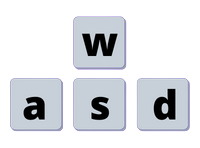
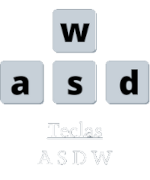
Site do projeto

diff --git a/index.html b/index.html
@@ -37,20 +37,20 @@
             <div id="comandos">
                 <article class="comandos">
                     <h2>OLHE AO REDOR</h2>
-                    <img src="imagens/olhe-ao-redor.png" alt="">
+                    <img src="imagens/olhe-ao-redor.png">
                     <p>Movimente a cabeça horizontalmente para olhar ao redor</p>
                     <div class="olhe-ao-redor">
-                        <p><img src="imagens/tecla(andar).png" alt=""><span>Teclas</span> <br> A S D W</p>
-                        <p><img src="imagens/mouse-1.png" alt=""><span>Mouse</span> <br> Movimento</p>
+                        <img src="imagens/tecla(andar).png">
+                        <img src="imagens/mouse-1.png">
                     </div>
                 </article>
                 <article class="comandos">
                     <h2>FECHE OS OLHOS</h2>
-                    <img src="imagens/feche-os-olhos.png" alt="">
+                    <img src="imagens/feche-os-olhos.png">
                     <p>Feche os olhos para que as atividades pararem de acontecer</p>
                     <div class="feche-os-olhos">
-                        <p><img src="imagens/tecla-f.png" alt=""><span>Tecla</span><br> F</p>
-                        <p><img src="imagens/mouse-2.png" alt="">Mouse<br>Botão direito</p>
+                        <img src="imagens/tecla-f.png">
+                        <img src="imagens/mouse-2.png">
                     </div>
                 </article>
             </div>
@@ -58,18 +58,18 @@
             <div id="comandos">
                 <article class="comandos">
                     <h2>CONTROLE PENSAMENTOS</h2>
-                    <img src="imagens/controle-os-pensamentos.png" alt="">
+                    <img src="imagens/controle-os-pensamentos.png">
                     <p>controle seus pensamentos no ritmo do relógio ao tomar um susto</p>
                     <div class="pensamentos">
-                        <p><img src="imagens/space.png" alt=""><span>Tecla</span><br>Espaço</p>
+                        <img src="imagens/space.png">
                     </div>
                 </article>
                 <article class="comandos">
                     <h2>OU DESISTA</h2>
-                    <img src="imagens/sair.png" alt="">
+                    <img src="imagens/sair.png">
                     <p>Use o menu de pause para arrumar suas configurações ou desistir do jogo</p>
                     <div class="desista">
-                        <p><img src="imagens/esc.png" alt=""><br><span>Tecla</span><br>Esc</p>
+                        <img src="imagens/esc.png">
                     </div>
                 </article>
             </div>
@@ -78,11 +78,9 @@
         <!--O JOGO-->
         <section>
             <h1>O JOGO</h1>
-            <p>
+            <p>O personagem deverá sobreviver da hora que acordou - onde será indicado no relógio - até as 6h da manhâ. O tempo no jogo passará mais rápido, o que significa que 1h dentro do jogo equivale a 2 minutos da vida real</p>
 
-            </p>
-
-            <article>
+            <article class="jogo-grad">
                 <div>
                     <ul>
                         <li>GRADATIVAMENTE</li>
@@ -93,11 +91,11 @@
                 </div>
 
                 <div>
-                    <img src="" alt="">
+                    <img src="imagens/cadeira.png" alt="">
                 </div>
             </article>
 
-            <article>
+            <article class="jogo-jump">
                 <div>
                     <ul>
                         <li>JUMP SCAPE</li>
@@ -107,11 +105,13 @@
                 </div>
 
                 <div>
-                    <img src="" alt="">
+                    <img src="imagens/fantasma.png" alt="">
                 </div>
             </article>
+        </section>
 
-            <article>
+        <section>
+            <article class="o-jogo">
                 <h2>BARRA DA SANIDADE</h2>
                 <p>Existe uma barra de sanidade que diminui com as atividades em que o jogador passa. Quanto menor a sanidade do jogador, maior o número de acontecimentos.</p>
                 <p>Caso a barra seja zerada, ele será pego pela entidade que está o assombrando</p>
@@ -131,13 +131,13 @@
                 <p>No nível médio, a barra ainda é visível, porém o jogador não recupera a sanidade perdida, somente para de decair por um tempo</p>
                 <p>No nível difícil, além de perder a sanidade rápidamente, não é possível ver a barra</p>
 
-                <article>
-                    <div>
+                <article class="fim-de-jogo">
+                    <div class="derrota">
                         <h2>CONDIÇÃO DE DERROTA</h2>
                         <p>Ser pego pela "coisa" que está assombrando o REM do jogador</p>
                     </div>
 
-                    <div>
+                    <div class="vitoria">
                         <h2>CONDIÇÃO DE VITÓRIA</h2>
                         <p>Sobreviver até o final da fase, ou seja, 6 horas da manha do jogo.</p>
                     </div>

diff --git a/style.css b/style.css
@@ -21,12 +21,10 @@ body {
     background-color: black;
 } 
 
-img {
-    width: 100%;
-}
 
 p {
     font-family: var(--font02);
+    font-weight: lighter;
     color: white;
     margin: 10px;
     padding: 5px;
@@ -34,6 +32,10 @@ p {
 }
 
 /* CABEÇALHO */
+
+header > img {
+    width: 100%;
+}
 
 header > h1 {
     font-family: var(--font01);
@@ -52,6 +54,7 @@ section {
     max-width: 1000px;
     margin: auto;
     margin-bottom: 50px;
+    border-radius: 20px;
 }
 
 /* COMANDOS */
@@ -61,6 +64,8 @@ section {
     flex-direction: row;
     justify-content: space-around;
 }
+
+
 .comandos {
     max-width: 250px;
     margin: 20px;
@@ -87,45 +92,126 @@ section {
     text-align: center;
 }
 
+
 .olhe-ao-redor {
-    max-width: 250px;
+    max-width: 320px;
     display: flex;
     flex-direction: row;
-    text-align: center;
-}
-
-.olhe-ao-redor > p > span {
-    text-decoration: underline;
+    justify-content: space-between;
+    
 }
 
 .feche-os-olhos {
-    max-width: 250px;
+    max-width: 300px;
     display: flex;
     flex-direction: row;
-    text-align: center;
-}
-
-.feche-os-olhos > p > span {
-    text-decoration: underline;
+    justify-content: space-between;  
 }
 
 .pensamentos {
-    max-width: 250px;
+    max-width: 300px;
     display: flex;
     flex-direction: row;
-    text-align: center;
-}
-
-.pensamentos > p > span {
-    text-decoration: underline;
+    justify-content: space-between;  
 }
 
 .desista {
-    max-width: 250px;
+    max-width: 300px;
     display: flex;
     flex-direction: row;
+    justify-content: space-between;
 }
 
-.desista > p > span {
+/* O JOGO */
+
+.jogo-grad {
+    margin: 30px;
+    display: flex;
+    flex-direction: row;
+    justify-content: space-around;
+    align-items: center;
+}
+
+.jogo-jump {
+    margin: 15px;
+    display: flex;
+    flex-direction: row-reverse;
+    justify-content: space-around;
+    align-items: center;
+}
+
+li {
+    font-size: 20px;
+    color: white;
     text-decoration: underline;
+}
+
+.o-jogo > h2 {
+    font-family: var(--font02);
+    color: var(--cor01);
+    background-color: white;
+    font-size: 1em;
+    margin: auto;
+    width: 800px;
+    text-align: center;
+}
+
+.o-jogo > p {
+    max-width: 800px;
+    margin: auto;
+    padding: 15px;
+}
+
+.o-jogo > ul, li {
+    max-width: 800px;
+    margin: auto;
+    margin-bottom: 10px;
+    padding: 5px;
+    text-decoration: none;
+    font-weight: lighter;
+}
+
+.fim-de-jogo {
+    display: flex;
+    flex-direction: row;
+    justify-content: space-around;
+    align-items: center;
+    margin: auto;
+}
+
+.derrota {
+    margin: 10px;
+    padding: 10px;
+    border-width: 3px;
+    border-style: solid;
+    border-color: white;
+}
+
+.derrota > h2 {
+    font-family: var(--font02);
+    color: var(--cor01);
+    background-color: white;
+    font-size: 1em;
+    margin: auto;
+    width: 300px;
+    text-align: center;
+    
+}
+
+.vitoria {
+    margin: 10px;
+    padding: 10px;
+    border-width: 3px;
+    border-style: solid;
+    border-color: white;
+}
+
+.vitoria > h2 {
+    font-family: var(--font02);
+    color: var(--cor01);
+    background-color: white;
+    font-size: 1em;
+    margin: auto;
+    width: 300px;
+    text-align: center;
 }
